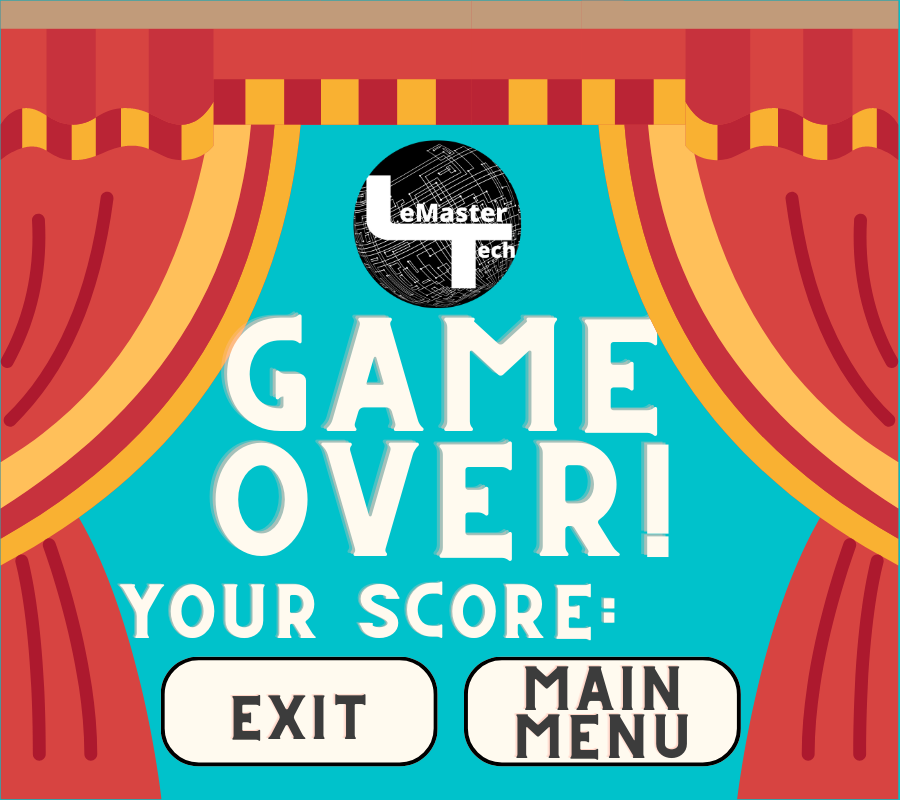
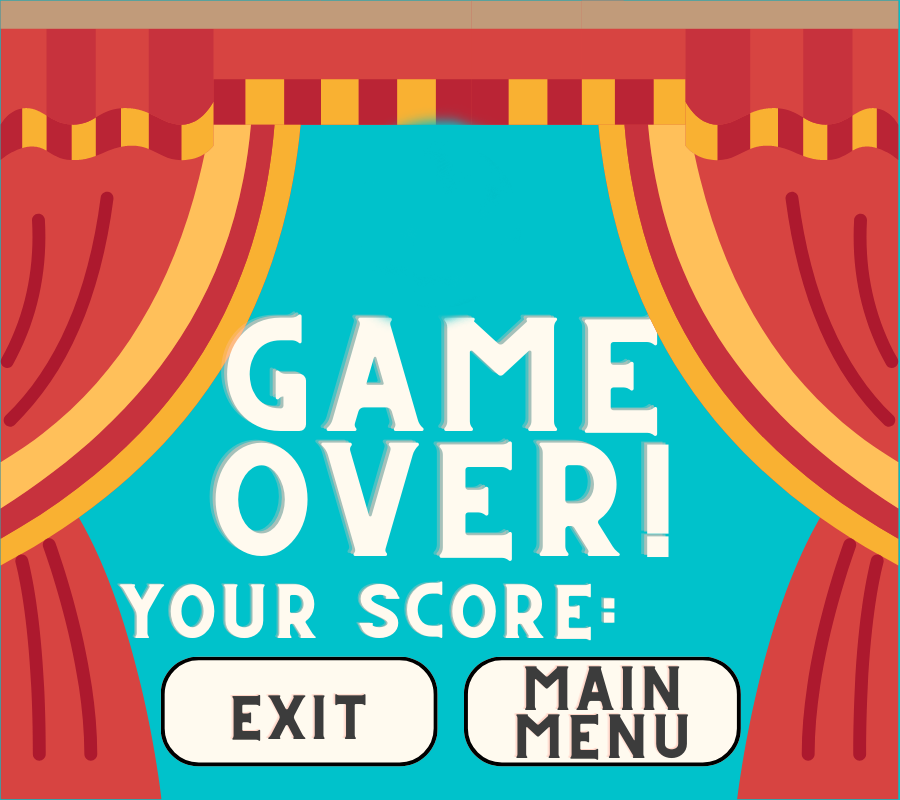
chore: finished project

Changed region(s): [[0.3733, 0.125, 0.5911, 0.4062]]

diff --git a/main.py b/main.py
@@ -6,17 +6,84 @@ pygame.init()
 fps = 60
 timer = pygame.time.Clock()
 font = pygame.font.Font('assets/font/myFont.ttf', 32)
+big_font = pygame.font.Font('assets/font/myFont.ttf', 60)
 WIDTH = 900
 HEIGHT = 800
 screen = pygame.display.set_mode([WIDTH, HEIGHT])
 bgs = []
 banners = []
 guns = []
-level = 1
+target_images = [[], [], []]
+targets = {1: [10, 5, 3], 2: [12, 8, 5], 3: [15, 12, 8, 3]}
+level = 0
+points = 0
+
+#0 = freeplay, 1 = accuarcy, 2 = timed
+mode = 0
+ammo = 0
+time_passed = 0
+time_remaining = 0
+counter = 1
+best_freeplay = 0
+best_ammo = 0
+best_time = 0
+total_shots = 0
+shot = False
+menu = True
+game_over = False
+pause = False
+clicked = False
+write_values = False
+new_coords = True
+one_coords = [[], [], []]
+two_coords = [[], [], []]
+three_coords = [[], [], [], []]
+menu_img = pygame.image.load(f'assets/menus/mainMenu.png')
+game_over_img = pygame.image.load(f'assets/menus/gameOver.png')
+pause_img = pygame.image.load(f'assets/menus/pause.png')
+
 for i in range(1,4):
     bgs.append(pygame.image.load(f'assets/bgs/{i}.png'))
     banners.append(pygame.image.load(f'assets/banners/{i}.png'))
-    guns.append(pygame.image.load(f'assets/guns/{i}.png'))
+    guns.append(pygame.transform.scale(pygame.image.load(f'assets/guns/{i}.png'), (100, 100)))
+    if i < 3:
+        for j in range(1,4):
+            target_images[i - 1].append(pygame.transform.scale(pygame.image.load(f'assets/targets/{i}/{j}.png'), (120 - (j*18), 80 - (j*12))))
+    else:
+        for j in range(1,5):
+            target_images[i - 1].append(pygame.transform.scale(pygame.image.load(f'assets/targets/{i}/{j}.png'), (120 - (j*18), 80 - (j*12))))
+
+file = open('high_scores.txt', 'r')
+read_file = file.readlines()
+file.close()
+best_freeplay = int(read_file[0])
+best_ammo = int(read_file[1])
+best_time = int(read_file[2])
+pygame.mixer.init()
+pygame.mixer.music.load('assets/sounds/bg_music.mp3')
+plate_sound = pygame.mixer.Sound('assets/sounds/Broken plates.wav')
+plate_sound.set_volume(.2)
+bird_sound = pygame.mixer.Sound('assets/sounds/Drill Gear.mp3')
+bird_sound.set_volume(.2)
+laser_sound = pygame.mixer.Sound('assets/sounds/Laser Gun.wav')
+laser_sound.set_volume(.3)
+pygame.mixer.music.play()
+
+
+def draw_score():
+    points_text = font.render(f'Poinst: {points}', True, 'black')
+    screen.blit(points_text, (320, 660))
+    shots_text = font.render(f'Total Shots: {total_shots}', True, 'black')
+    screen.blit(shots_text, (320, 687))
+    time_text = font.render(f'Time Elapsed: {time_passed}', True, 'black')
+    screen.blit(time_text, (320, 714))
+    if mode == 0:
+        mode_text = font.render(f'Freeplay', True, 'black')
+    if mode == 1:
+        mode_text = font.render(f'Ammo Remaining: {ammo}', True, 'black')
+    if mode == 2:
+        mode_text = font.render(f'Time Remaining: {time_remaining}', True, 'black')
+    screen.blit(mode_text, (320, 741))
 
 def draw_gun():
     mouse_pos = pygame.mouse.get_pos()
@@ -35,27 +102,273 @@ def draw_gun():
             screen.blit(pygame.transform.rotate(gun, 90 - rotation), (WIDTH/2 - 90, HEIGHT - 250))
             if clicks[0]:
                 pygame.draw.circle(screen, lasers[level - 1], mouse_pos, 5)
-        else:
-            gun = guns[level - 1]
-            if mouse_pos[1] < 600:
-                screen.blit(pygame.transform.rotate(gun, 270 - rotation), (WIDTH/2 - 30, HEIGHT - 250))
-                if clicks[0]:
-                    pygame.draw.circle(screen, lasers[level - 1], mouse_pos, 5)
+    else:
+        gun = guns[level - 1]
+        if mouse_pos[1] < 600:
+            screen.blit(pygame.transform.rotate(gun, 270 - rotation), (WIDTH/2 - 30, HEIGHT - 250))
+            if clicks[0]:
+                pygame.draw.circle(screen, lasers[level - 1], mouse_pos, 5)
 
+def move_level(coords):
+    if level == 1 or level == 2:
+        max_val = 3
+    else:
+        max_val = 4
+    for i in range(max_val):
+        for j in range(len(coords[i])):
+            my_coords = coords[i][j]
+            if my_coords[0] < -150:
+                coords[i][j] = (WIDTH, my_coords[1])
+            else:
+                coords[i][j] = (my_coords[0] - 2**i, my_coords[1])
+    return coords
+
+def draw_level(coords):
+    if level == 1 or level == 2:
+        target_rects = [[], [], []]
+    else:
+        target_rects = [[], [], [], []]
+    for i in range(len(coords)):
+        for j in range(len(coords[i])):
+            target_rects[i].append(pygame.rect.Rect((coords[i][j][0] + 20, coords[i][j][1]), (60 - i * 12, 60 - i * 12)))
+            screen.blit(target_images[level - 1][i], coords[i][j])
+    return target_rects
+
+def check_shot(targets, coords):
+    global points
+    mouse_pos = pygame.mouse.get_pos()
+    for i in range(len(targets)):
+        for j in range(len(targets[i])):
+            if targets[i][j].collidepoint(mouse_pos):
+                coords[i].pop(j)
+                points += 10 + 10 * (i**2)
+                if level == 1:
+                    bird_sound.play()
+                elif level == 2:
+                    plate_sound.play()
+                elif level == 3:
+                    laser_sound.play()
+    return coords
+
+def draw_menu():
+    global game_over, pause, mode, level, menu, time_passed, total_shots, points, ammo, time_remaining, write_values, best_time, best_freeplay, best_ammo, clicked, new_coords
+    game_over = False
+    pause = False
+    screen.blit(menu_img, (0, 0))
+    mouse_pos = pygame.mouse.get_pos()
+    clicks = pygame.mouse.get_pressed()
+    freeplay_button = pygame.rect.Rect((170, 524), (260, 100))
+    screen.blit(font.render(f'{best_freeplay}', True, 'black'), (340, 580))
+    ammo_button = pygame.rect.Rect((475, 524), (260, 100))
+    screen.blit(font.render(f'{best_ammo}', True, 'black'), (650, 580))
+    timed_button = pygame.rect.Rect((170, 661), (260, 100))
+    screen.blit(font.render(f'{best_time}', True, 'black'), (350, 710))
+    reset_button = pygame.rect.Rect((475, 661), (260, 100))
+    if freeplay_button.collidepoint(mouse_pos) and clicks[0] and not clicked:
+        mode = 0
+        level = 1
+        menu = False
+        time_passed = 0
+        total_shots = 0
+        points = 0
+        clicked = True
+        new_coords = True
+    if ammo_button.collidepoint(mouse_pos) and clicks[0] and not clicked:
+        mode = 1
+        level = 1
+        menu = False
+        time_passed = 0
+        ammo = 81
+        total_shots = 0
+        points = 0
+        clicked = True
+        new_coords = True
+    if timed_button.collidepoint(mouse_pos) and clicks[0] and not clicked:
+        mode = 2
+        level = 1
+        menu = False
+        time_passed = 0
+        total_shots = 0
+        time_remaining = 30
+        points = 0
+        clicked = True
+        new_coords = True
+    if reset_button.collidepoint(mouse_pos) and clicks[0] and not clicked:
+        best_freeplay = 0
+        best_ammo = 0
+        best_time = 0
+        write_values = True
+        clicked = True
+        new_coords = True
+
+def draw_game_over():
+    global clicked, level, pause, game_over, menu, total_shots, time_remaining, time_passed, points
+    if mode == 0:
+        display_score = time_passed
+    else:
+        display_score = points
+    screen.blit(game_over_img, (0, 0))
+    mouse_pos = pygame.mouse.get_pos()
+    clicks = pygame.mouse.get_pressed()
+    exit_button = pygame.rect.Rect((170, 661), (260, 100))
+    menu_button = pygame.rect.Rect((475, 661), (260, 100))
+    screen.blit(big_font.render(f'{display_score}', True, 'black'), (650, 570))
+    if menu_button.collidepoint(mouse_pos) and clicks[0] and not clicked:
+        clicked = True
+        level = 0
+        pause = False
+        game_over = False
+        menu = True
+        points = 0
+        total_shots = 0
+        time_passed = 0
+        time_remaining = 0
+    if exit_button.collidepoint(mouse_pos) and clicks[0] and not clicked:
+        global run
+        run = False
+
+def draw_pause():
+    global level, pause, menu, points, time_passed, time_remaining, total_shots, new_coords
+    screen.blit(pause_img, (0, 0))
+    mouse_pos = pygame.mouse.get_pos()
+    clicks = pygame.mouse.get_pressed()
+    resume_button = pygame.rect.Rect((170, 661), (260, 100))
+    menu_button = pygame.rect.Rect((475, 661), (260, 100))
+    if resume_button.collidepoint(mouse_pos) and clicks[0] and not clicked:
+        level = resume_level
+        pause = False
+    if menu_button.collidepoint(mouse_pos) and clicks[0] and not clicked:
+        pygame.mixer.music.play()
+        level = 0
+        pause = False
+        menu = True
+        points = 0
+        time_passed = 0
+        total_shots = 0
+        time_remaining = 0
+        clicked = True
+        new_coords = True
+
+
+
+#Start Game
 run = True
 while run:
     timer.tick(fps)
+    if level != 0:
+        if counter < 60:
+            counter += 1
+        else:
+            counter = 1
+            time_passed += 1
+            if mode == 2:
+                time_remaining -= 1
+
+    if level == 1 and new_coords:
+        # init enemy coords
+        one_coords = [[], [], []]
+        two_coords = [[], [], []]
+        three_coords = [[], [], [], []]
+        for i in range(3):
+            my_list = targets[1]
+            for j in range(my_list[i]):
+                one_coords[i].append((WIDTH//(my_list[i]) * j, 300 - (i * 150) + 30 * (j % 2)))
+        for i in range(3):
+            my_list = targets[2]
+            for j in range(my_list[i]):
+                two_coords[i].append((WIDTH//(my_list[i]) * j, 300 - (i * 150) + 30 * (j % 2)))
+        for i in range(4):
+            my_list = targets[3]
+            for j in range(my_list[i]):
+                three_coords[i].append((WIDTH//(my_list[i]) * j, 300 - (i * 100) + 30 * (j % 2)))
+        new_coords = False
+
+    
 
     screen.fill('black')
     screen.blit(bgs[level - 1], (0, 0))
     screen.blit(banners[level - 1], (0, HEIGHT - 200))
+    if menu:
+        level = 0
+        draw_menu()
+    if game_over:
+        level = 0
+        draw_game_over()
+    if pause:
+        level = 0
+        draw_pause()
+
+
+    if level == 1:
+        target_boxes = draw_level(one_coords)
+        one_coords = move_level(one_coords)
+        if shot:
+            one_coords = check_shot(target_boxes, one_coords)
+            shot = False
+    elif level == 2:
+        target_boxes = draw_level(two_coords)
+        two_coords = move_level(two_coords)
+        if shot:
+            two_coords = check_shot(target_boxes, two_coords)
+            shot = False
+    elif level == 3:
+        target_boxes = draw_level(three_coords)
+        three_coords = move_level(three_coords)
+        if shot:
+            three_coords = check_shot(target_boxes, three_coords)
+            shot = False
 
     if level > 0:
         draw_gun()
+        draw_score()
 
     for event in pygame.event.get():
         if event.type == pygame.QUIT:
             run = False
+        if event.type == pygame.MOUSEBUTTONDOWN and event.button == 1:
+            mouse_position = pygame.mouse.get_pos()
+            if (0 < mouse_position[0] < WIDTH) and (0 < mouse_position[1] < HEIGHT - 200):
+                shot = True
+                total_shots += 1
+                if mode == 1:
+                    ammo -= 1
+            if (670 < mouse_position[0] < 860) and (660 < mouse_position[1] < 715):
+                resume_level = level
+                pause = True
+                clicked = True
+            if (670 < mouse_position[0] < 860) and (715 < mouse_position[1] < 760):
+                menu = True
+                pygame.mixer.music.play()
+                clicked = True
+                new_coords = True
+        if event.type == pygame.MOUSEBUTTONUP and event.button == 1 and clicked:
+            clicked = False
+
+
+    if level > 0:
+        if target_boxes == [[], [], []] and level < 3:
+            level += 1
+        if (level == 3 and target_boxes == [[], [], [], []]) or (mode == 1 and ammo == 0) or (mode == 2 and time_remaining == 0):
+            new_coords = True
+            pygame.mixer.music.play()
+            if mode == 0:
+                if time_passed < best_freeplay or best_freeplay == 0:
+                    best_freeplay = time_passed
+                    write_values = True
+            if mode == 1:
+                if points > best_ammo:
+                    best_ammo = points
+                    write_values = True
+            if mode == 2:
+                if points > best_time:
+                    best_time = points
+                    write_values = True
+            game_over = True
+    if write_values:
+        file.open('high_scores.txt' 'w')
+        file.write(f'{best_freeplay}\n{best_ammo}\n{best_time}')
+        file.close()
+        write_values = False
 
     pygame.display.flip()
 pygame.quit()
